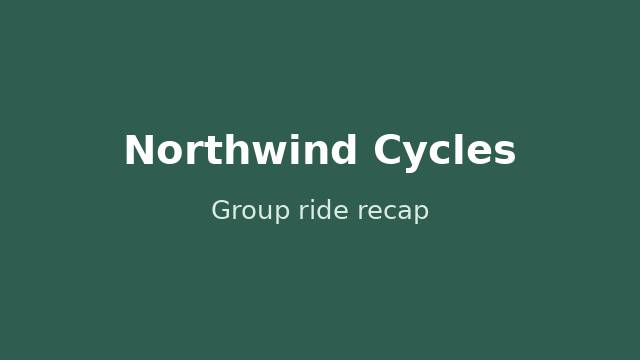
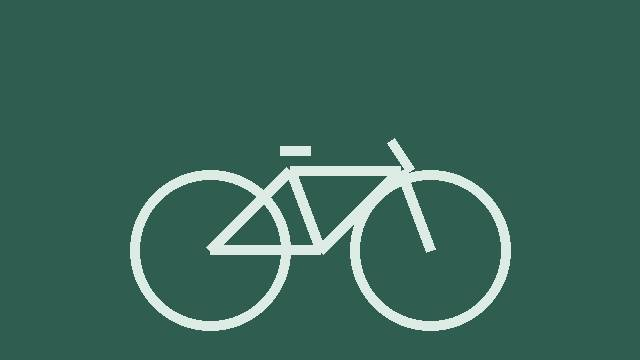
fix: header always describes reviews; text-free video poster in the example

Changed region(s): [[0.1875, 0.3667, 0.8125, 0.9167]]

diff --git a/assets/js/reviews-widget.js b/assets/js/reviews-widget.js
@@ -659,14 +659,9 @@
         </div>
       </div>` : '';
 
-      const basedCount = onAccolades ? accoladesList.length : onTestimonials ? testimonialsList.length : onCredentials ? credentialsList.length : pool.length;
-      const basedUnit = onAccolades
-        ? (basedCount === 1 ? S.accolade_one : S.accolade_many)
-        : onTestimonials
-          ? (basedCount === 1 ? S.testimonial_one : S.testimonial_many)
-          : onCredentials
-          ? (basedCount === 1 ? S.credential_one : S.credential_many)
-          : (basedCount === 1 ? S.review_one : S.review_many);
+      // The header always describes reviews: a platform's own, else all of them (Awards / Credentials / Testimonials too).
+      const basedCount = pool.length;
+      const basedUnit = basedCount === 1 ? S.review_one : S.review_many;
       const basedPlatform = (!onSpecial && active !== 'all')
         ? esc(fill(S.on_platform, { platform: pname(active) }))
         : '';
